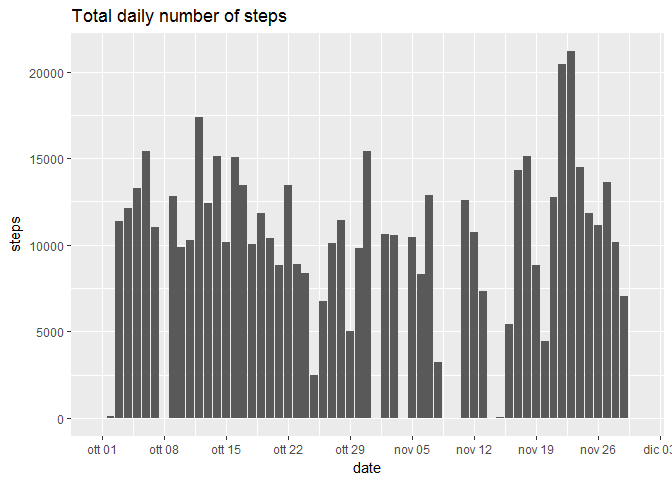
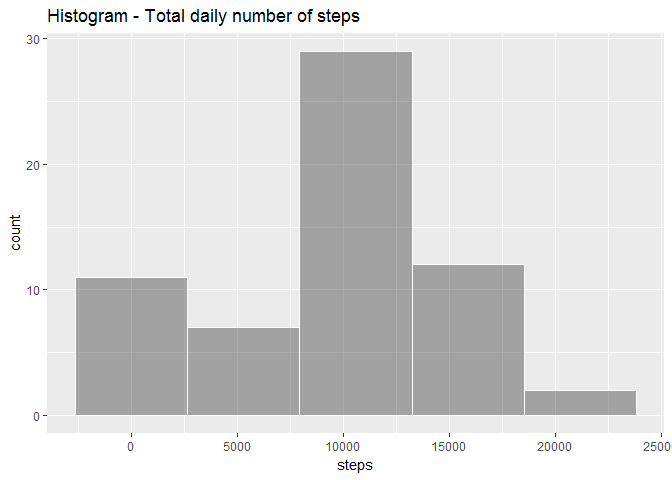
third commit

diff --git a/PA1_template.html b/PA1_template.html
@@ -150,9 +150,13 @@ summary(activities)</code></pre>
 <ul>
 <li>Make a histogram of the total number of steps taken each day</li>
 </ul>
-<pre class="r"><code>gg &lt;- ggplot(data = daysteps, aes(x=date,y=steps)) + geom_bar(stat = 'identity') + scale_x_date(date_breaks = '1 week',date_labels = &quot;%b %d&quot;) + labs(title = &quot;Total daily number of steps &quot;)
+<pre class="r"><code>gg &lt;- ggplot(data=daysteps, aes(steps)) + geom_histogram(bins = 5,alpha=.5,col=&quot;white&quot;) + labs(title = &quot;Histogram - Total daily number of steps&quot;)
 print(gg)</code></pre>
[2 lines of base64/hex data omitted]
+<p><strong>Barplot</strong></p>
+<pre class="r"><code>gg &lt;- ggplot(data = daysteps, aes(x=date,y=steps)) + geom_bar(stat = 'identity') + scale_x_date(date_breaks = '1 week',date_labels = &quot;%b %d&quot;) + labs(title = &quot;Barplot - Total daily number of steps&quot;)
+print(gg)</code></pre>
[1 lines of base64/hex data omitted]
 <ul>
 <li>Calculate and report the mean and median of the total number of steps taken per day</li>
 </ul>
@@ -195,9 +199,12 @@ for(i in seq_along(activitiesNoNA$steps)){
 <li>Make a histogram of the total number of steps taken each day.</li>
 </ul>
 <pre class="r"><code>daystepsNoNA &lt;- aggregate(steps ~ date, sum, data=activitiesNoNA, na.rm=T)
-gg &lt;- ggplot(data = daystepsNoNA, aes(x=date,y=steps)) + geom_bar(stat = 'identity') + scale_x_date(date_breaks = '1 week',date_labels = &quot;%b %d&quot;) + labs(title = &quot;Total daily number of steps - with imputed values&quot;)
+gg &lt;- ggplot(data=daystepsNoNA, aes(steps)) + geom_histogram(bins = 5,alpha=.5,col=&quot;white&quot;) + labs(title = &quot;Histogram - Total daily number of steps &quot;)
 print(gg)</code></pre>
[2 lines of base64/hex data omitted]
+<pre class="r"><code>gg &lt;- ggplot(data = daystepsNoNA, aes(x=date,y=steps)) + geom_bar(stat = 'identity') + scale_x_date(date_breaks = '1 week',date_labels = &quot;%b %d&quot;) + labs(title = &quot;Barplot - Total daily number of steps - with imputed values&quot;)
+print(gg)</code></pre>
[1 lines of base64/hex data omitted]
 <ul>
 <li>Calculate and report the mean and median total number of steps taken per day</li>
 </ul>
@@ -207,7 +214,7 @@ medNoNA &lt;- median( daystepsNoNA$steps)</code></pre>
 <ul>
 <li><p>Do these values differ from the estimates from the first part of the assignment?<br />
 The values differ from the first part of assignment respectively: mean by <strong>1411.959</strong> and median by <strong>371.1887</strong>.</p></li>
-<li><p>What is the impact of imputing missing data on the estimates of the total daily number of steps?</p></li>
+<li><p>What is the impact of imputing missing data on the estimates of the total daily number of steps? Days impacted by imputing missing data</p></li>
 </ul>
 <pre class="r"><code>df &lt;-setNames(cbind(daysteps,daystepsNoNA$steps),c(&quot;date&quot;,&quot;stepswNA&quot;,&quot;stepswoNA&quot;)) 
 

diff --git a/PA1_template.md b/PA1_template.md
@@ -43,14 +43,23 @@ summary(activities)
 daysteps <- setNames(aggregate(activities$steps,by=list(activities$date),sum,na.rm=T),c("date","steps"))
 ```
 
-*  Make a histogram of the total number of steps taken each day
+*  Make a histogram of the total number of steps taken each day  
 
 ```r
-gg <- ggplot(data = daysteps, aes(x=date,y=steps)) + geom_bar(stat = 'identity') + scale_x_date(date_breaks = '1 week',date_labels = "%b %d") + labs(title = "Total daily number of steps ")
+gg <- ggplot(data=daysteps, aes(steps)) + geom_histogram(bins = 5,alpha=.5,col="white") + labs(title = "Histogram - Total daily number of steps")
 print(gg)
 ```
 
 ![](figures/histogram_steps_by_day-1.png)<!-- -->
+
+**Barplot**
+
+```r
+gg <- ggplot(data = daysteps, aes(x=date,y=steps)) + geom_bar(stat = 'identity') + scale_x_date(date_breaks = '1 week',date_labels = "%b %d") + labs(title = "Barplot - Total daily number of steps")
+print(gg)
+```
+
+![](figures/barplot_steps_by_day-1.png)<!-- -->
 
 
 * Calculate and report the mean and median of the total number of steps taken per day
@@ -105,16 +114,23 @@ for(i in seq_along(activitiesNoNA$steps)){
 }
 ```
 
-* Make a histogram of the total number of steps taken each day. 
-
+* Make a histogram of the total number of steps taken each day.  
 
 ```r
 daystepsNoNA <- aggregate(steps ~ date, sum, data=activitiesNoNA, na.rm=T)
-gg <- ggplot(data = daystepsNoNA, aes(x=date,y=steps)) + geom_bar(stat = 'identity') + scale_x_date(date_breaks = '1 week',date_labels = "%b %d") + labs(title = "Total daily number of steps - with imputed values")
+gg <- ggplot(data=daystepsNoNA, aes(steps)) + geom_histogram(bins = 5,alpha=.5,col="white") + labs(title = "Histogram - Total daily number of steps ")
 print(gg)
 ```
 
 ![](figures/histogram_steps_per_day_with_imputed_values-1.png)<!-- -->
+
+
+```r
+gg <- ggplot(data = daystepsNoNA, aes(x=date,y=steps)) + geom_bar(stat = 'identity') + scale_x_date(date_breaks = '1 week',date_labels = "%b %d") + labs(title = "Barplot - Total daily number of steps - with imputed values")
+print(gg)
+```
+
+![](figures/barplot_steps_per_day_with_imputed_values-1.png)<!-- -->
 
 * Calculate and report the mean and median total number of steps taken per day
 
@@ -129,6 +145,7 @@ The values differ from the first part of assignment respectively: mean by **1411
 
 
 * What is the impact of imputing missing data on the estimates of the total daily number of steps?
+Days impacted by imputing missing data  
 
 ```r
 df <-setNames(cbind(daysteps,daystepsNoNA$steps),c("date","stepswNA","stepswoNA")) 
